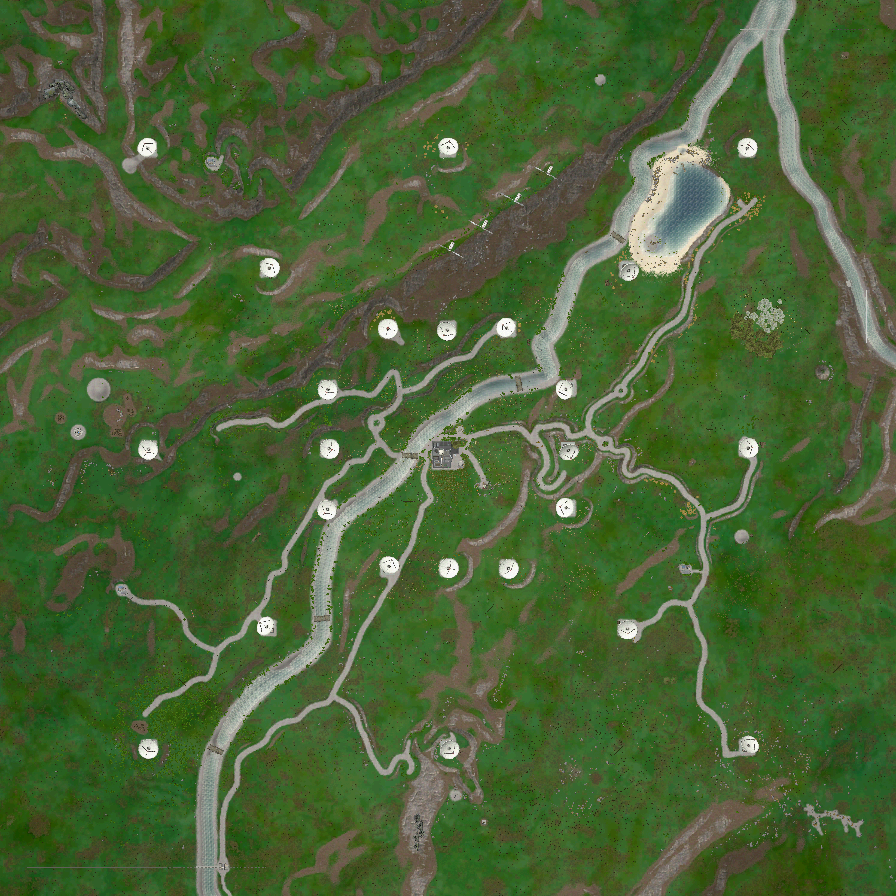
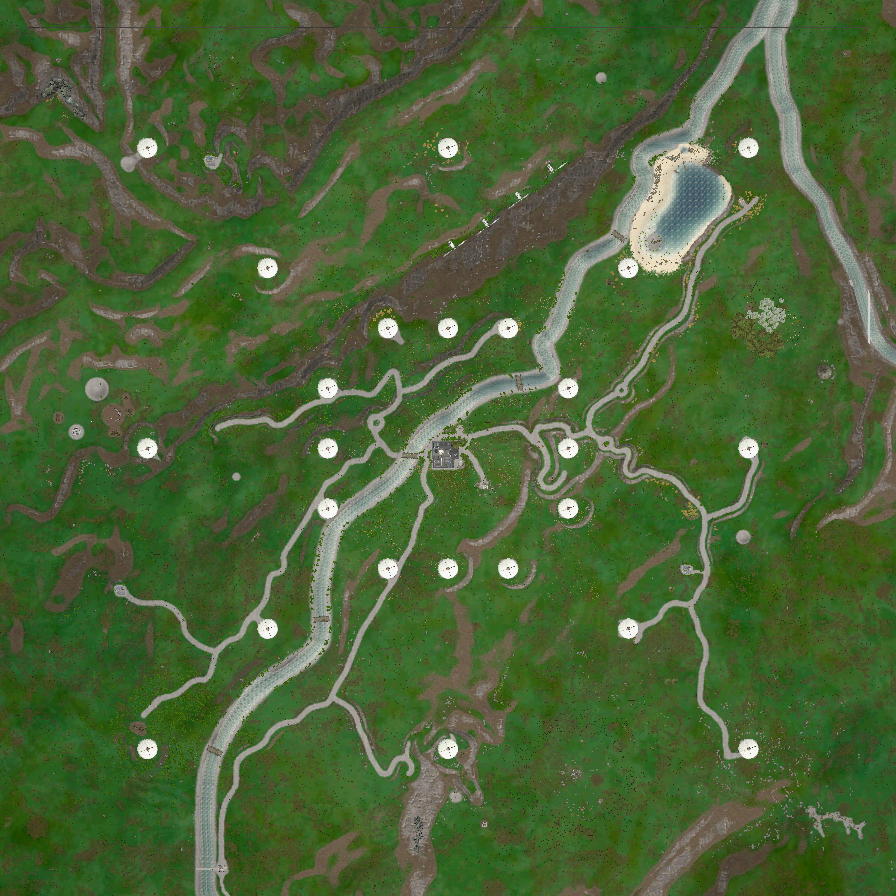
Points bug fix and brighter map

diff --git a/map_points.js b/map_points.js
@@ -1,10 +1,84 @@
 const map_size = 896;
 var references = {}
+// var references = {
+//     "category_satellite_dishes": {
+//         "categoryhead": Object,
+//         "entrycontainer": Object,
+//         1: {
+//             "point": Object,
+//             "entry": Object
+//         },
+//         2: {
+//             "point": Object,
+//             "entry": Object
+//         }
+//     }
+// }
+
+function hideEntries(element) {
+    let entrycontainer = references[element.parentElement.parentElement.id]['entrycontainer']
+    if (entrycontainer.classList.contains('hidden')) {
+        // unhide
+        entrycontainer.classList.remove('hidden')
+        element.innerHTML = '&nbsp;▼'
+    } else {
+        // hide
+        entrycontainer.classList.add('hidden')
+        element.innerHTML = '&nbsp;-'
+    }
+}
+
+function hideCategory(element) {
+    let id = element.parentElement.parentElement.id
+    let force
+    if (element.innerText == '[H]') {
+        // unhide points
+        element.innerText = '[S]'
+        element.classList.remove('gray')
+        force = 'show'
+    } else {
+        // hide points
+        element.innerText = '[H]'
+        element.classList.add('gray')
+        force = 'hide'
+    }
+    Object.keys(references[id]).forEach(key => {
+        if (!isNaN(key) && !isNaN(parseFloat(key))) {
+            // it is a number
+            // TODO: Make this IF statement unnessessary by spliting the pointindexes into a subcategory of references
+            hidePoint(id, key, force=force)
+        }
+    });
+}
+
+function hidePointCommand(element) {
+    hidePoint(element.parentElement.parentElement.parentElement.id, element.dataset.pointindex)
+}
+
+function hidePoint(id, pointindex, force=undefined) {
+    let point = references[id][pointindex]['point']
+    let button = references[id][pointindex]['entry'].querySelector('[data-pointindex]')
+    if ((point.classList.contains('hidden') || force == 'show') && (force != 'hide')) {
+        // unhide point
+        button.innerText = '[S]'
+        button.classList.remove('gray')
+        point.classList.remove('hidden')
+    } else {
+        // hide point
+        button.innerText = '[H]'
+        button.classList.add('gray')
+        point.classList.add('hidden')
+    }
+}
+
+
 
 // creating the points on the map
 points.forEach((data, pointindex) => {
-    let categoryname = `category_${(data.category != '' && data.category != undefined) ? data.category.toLowerCase().replace(' ','_') : 'miscellaneous'}`
+    // creates the category tag that the point will be sorted into
+    let categoryname = `category_${(data.category != '' && data.category != undefined) ? data.category.toLowerCase().replaceAll(' ','_') : 'miscellaneous'}`
 
+    // Create element. Add classes, add positioning, add pointindex data, prevent dragging, add icon, and add the element to the website
     let pointelement = document.createElement('img');
     pointelement.classList.add('image_label')
     pointelement.classList.add(data.positioning)
@@ -15,18 +89,24 @@ points.forEach((data, pointindex) => {
     pointelement.src = data.icon
     map_container.appendChild(pointelement)
 
+
+
+
+
     // generate entries for points tab
     //  category detection
-    if (document.getElementById(categoryname) == null) {
-        // doesn't exist, create containing category element
+    if (document.getElementById(categoryname) == null) { // if category entry does not exist yet..
+        // create containing category element
         let parentelement = document.createElement('div')
         parentelement.id = categoryname
 
+        //
         let headelement = document.createElement('div')
         headelement.classList.add('pointlist_category')
 
         // hide / show button
         let headelement_visiblitybutton = document.createElement('div')
+        headelement_visiblitybutton.classList.add('showhidebutton')
         headelement_visiblitybutton.classList.add('pointercursor')
         headelement_visiblitybutton.classList.add('unselectable')
         headelement_visiblitybutton.setAttribute('onclick', "hideCategory(this)")
@@ -81,78 +161,13 @@ points.forEach((data, pointindex) => {
     // store reference, add child
     references[categoryname][pointindex] = {'entry': entryelement, 'point': pointelement}
     references[categoryname]['entrycontainer'].appendChild(entryelement)
+
+
+
+
+
+    
 })
-
-function hideEntries(element) {
-    let entrycontainer = references[element.parentElement.parentElement.id]['entrycontainer']
-    if (entrycontainer.classList.contains('hidden')) {
-        // unhide
-        entrycontainer.classList.remove('hidden')
-        element.innerHTML = '&nbsp;▼'
-    } else {
-        // hide
-        entrycontainer.classList.add('hidden')
-        element.innerHTML = '&nbsp;-'
-    }
-}
-
-// var references = {
-//     "category_satellite_dishes": {
-//         "categoryhead": Object,
-//         "entrycontainer": Object,
-//         1: {
-//             "point": Object,
-//             "entry": Object
-//         },
-//         2: {
-//             "point": Object,
-//             "entry": Object
-//         }
-//     }
-// }
-
-function hideCategory(element) {
-    let id = element.parentElement.parentElement.id
-    let force
-    if (element.innerText == '[H]') {
-        // unhide points
-        element.innerText = '[S]'
-        element.classList.remove('gray')
-        force = 'show'
-    } else {
-        // hide points
-        element.innerText = '[H]'
-        element.classList.add('gray')
-        force = 'hide'
-    }
-    Object.keys(references[id]).forEach(key => {
-        if (!isNaN(key) && !isNaN(parseFloat(key))) {
-            // it is a number
-            // TODO: Make this IF statement unnessessary by spliting the pointindexes into a subcategory of references
-            hidePoint(id, key, force=force)
-        }
-    });
-}
-
-function hidePointCommand(element) {
-    hidePoint(element.parentElement.parentElement.parentElement.id, element.dataset.pointindex)
-}
-
-function hidePoint(id, pointindex, force=undefined) {
-    let point = references[id][pointindex]['point']
-    let button = references[id][pointindex]['entry']//.querySelector('[data-pointindex]')
-    if ((point.classList.contains('hidden') || force == 'show') && (force != 'hide')) {
-        // unhide point
-        button.innerText = '[S]'
-        button.classList.remove('gray')
-        point.classList.remove('hidden')
-    } else {
-        // hide point
-        button.innerText = '[H]'
-        button.classList.add('gray')
-        point.classList.add('hidden')
-    }
-}
 
 lines.forEach((data, lineindex) => {
     ctx.beginPath();
@@ -180,10 +195,7 @@ lines.forEach((data, lineindex) => {
 
 
 // hide categories by default
-
-// TODO: jesus christ make a better way of doing this
-
-hideCategory(references.category_chicken_burgers['70'].entry)
-hideCategory(references.category_halloween_pumpkins['80'].entry)
-
+// TODO: make a better way of doing this
+hideCategory(references.category_chicken_burgers.categoryhead.querySelector('.showhidebutton'))
+hideCategory(references.category_halloween_pumpkins.categoryhead.querySelector('.showhidebutton'))
 // console.log(references)

diff --git a/changelog.html b/changelog.html
@@ -111,7 +111,9 @@ Also also <i>also</i>, I am hoping to implement some sort of localstorage system
 I am somewhat concerned about the visibility of some of the points. I feel like some points have gotten hard to see with the new image. However, I think that the benefits here outweigh the offsets, because I think the map has become <b><i><u>much</u></i></b> more understandable now. Nevertheless, I have done some <i>very</i> small editing to reduce some of the visual noise, especially on the lake.<br>
 I've also adjusted the images and descriptions for some points.<br><br>
 
-<span class="time">9/6/2024 1725647282257</span>: Added a fancy link to a new feedback form I made (check it out <a href="https://forms.gle/3swU2hcG6GxEVFAh7">here</a>). I've been hoping to gather some feedback on what other people want from my website. I already know a couple of things, like proper zoom support, but I never hurts to see want other people want. It's completely anonymous, so I won't know who you are and you can submit it even without a google account. If you're reading this, don't be afraid to blast me in the form, don't hold back!
+<span class="time">9/6/2024 1725647282257</span>: Added a fancy link to a new feedback form I made (check it out <a href="https://forms.gle/3swU2hcG6GxEVFAh7">here</a>). I've been hoping to gather some feedback on what other people want from my website. I already know a couple of things, like proper zoom support, but I never hurts to see want other people want. It's completely anonymous, so I won't know who you are and you can submit it even without a google account. If you're reading this, don't be afraid to blast me in the form, don't hold back!<br><br>
+
+<span class="time">9/9/2024 1725921169034</span>: I've been busy resigning the structure of the webpage, but I wanted to quickly fix a longstanding bug that caused the points categories to act strange, especially when hiding and showing points. Apparently the bug was caused because the specific piece of code designed to handle hiding/showing was commented out for some reason. I've uncommented it out and I've also rearranged all the code in the points script. I also did a slight change to the code that hides the pumpkins and burgers, so they behave better now (I still will be replacing it with something better soon). Also, I've replaced the map image with another image that is slightly brighter.
 
 <br><br><hr>
 Features/bugs to add/fix:<br>
